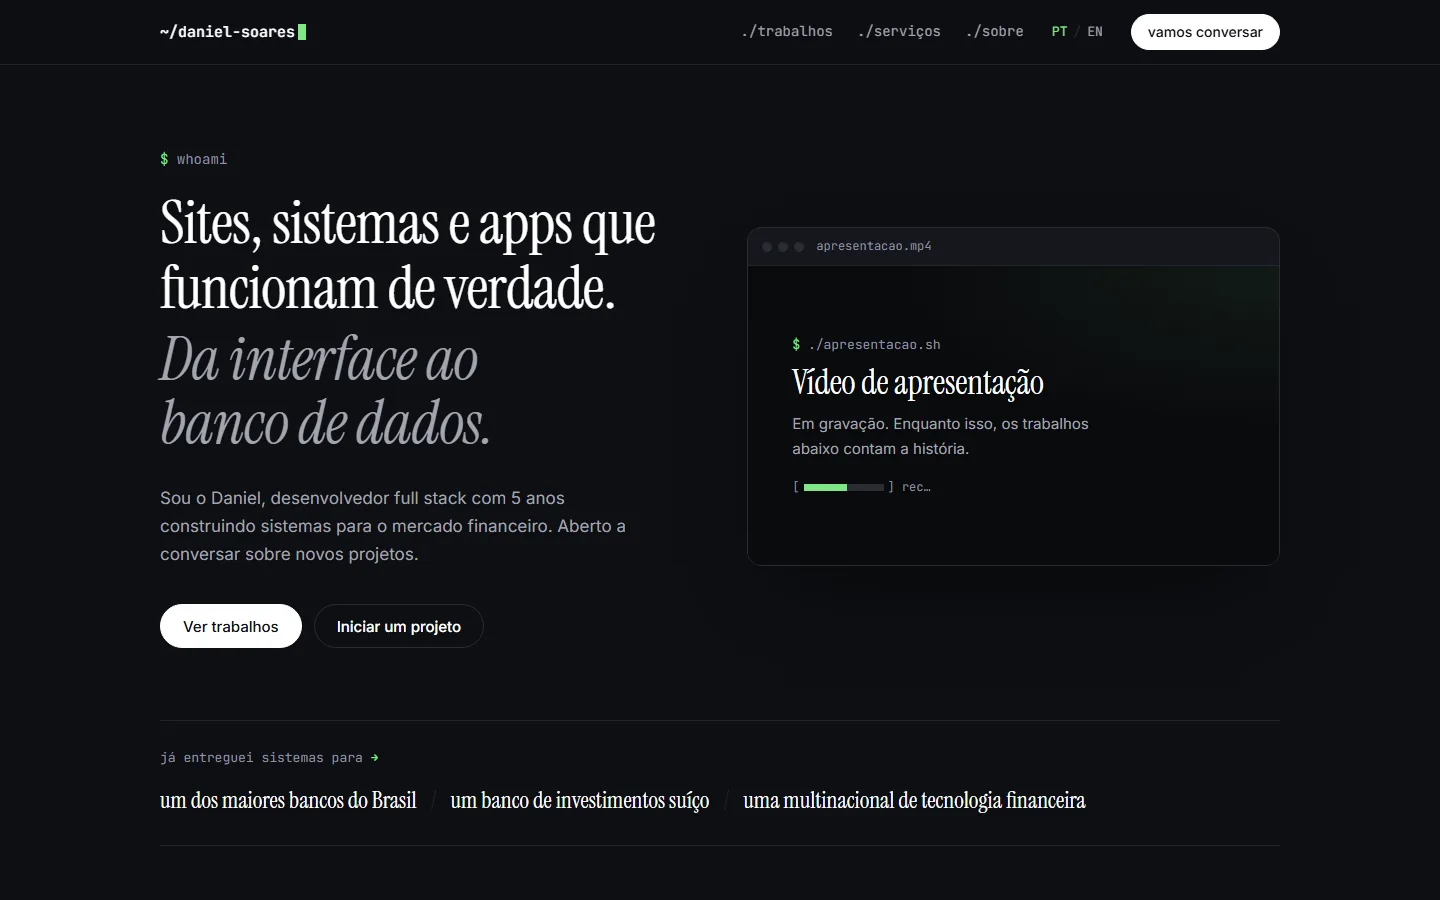
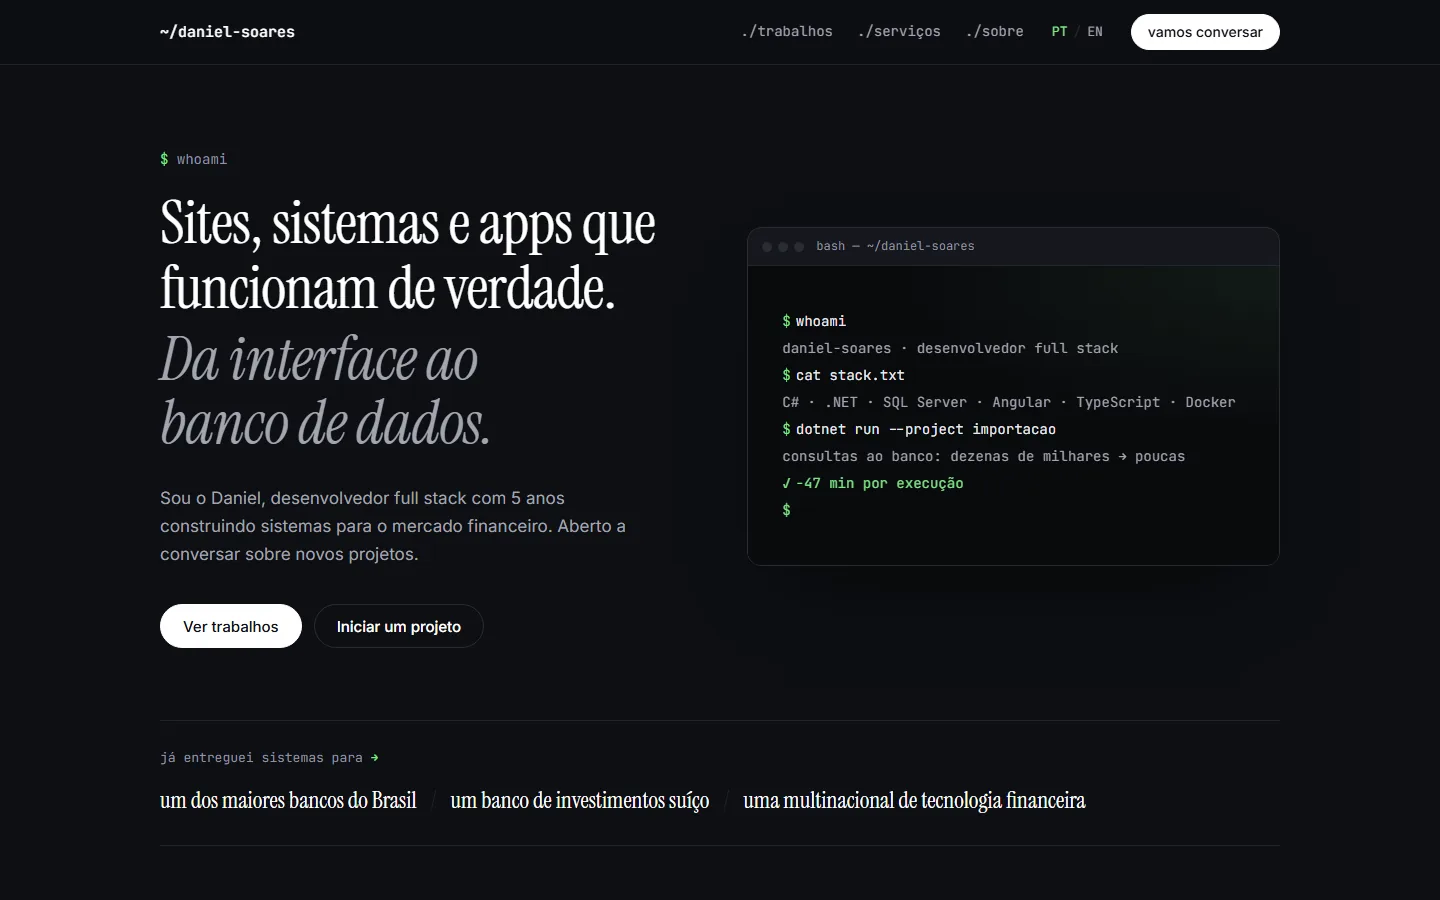
Projeto do portfólio como publicado e imagem atualizada
- Status do card: "publicado" / "live"
- Nova captura do site no ar (hero com a janela de terminal)

Changed region(s): [[0.5312, 0.3422, 0.8125, 0.56], [0.75, 0.4356, 0.8438, 0.4667], [0.5938, 0.2489, 0.6562, 0.28]]

diff --git a/web/src/config.ts b/web/src/config.ts
@@ -49,7 +49,7 @@ export const site = {
       media: { src: '/projects/daniel-soares-app.webp', width: 1440, height: 900 },
       live: 'https://daniel-soares-app.vercel.app',
       repo: 'https://github.com/daniel-ssoares/daniel-soares-app',
-      status: 'building',
+      status: 'live',
       stack: ['Astro', 'TypeScript', '.NET 10', 'PostgreSQL', 'Docker'],
     },
   ] satisfies Project[] as Project[],
